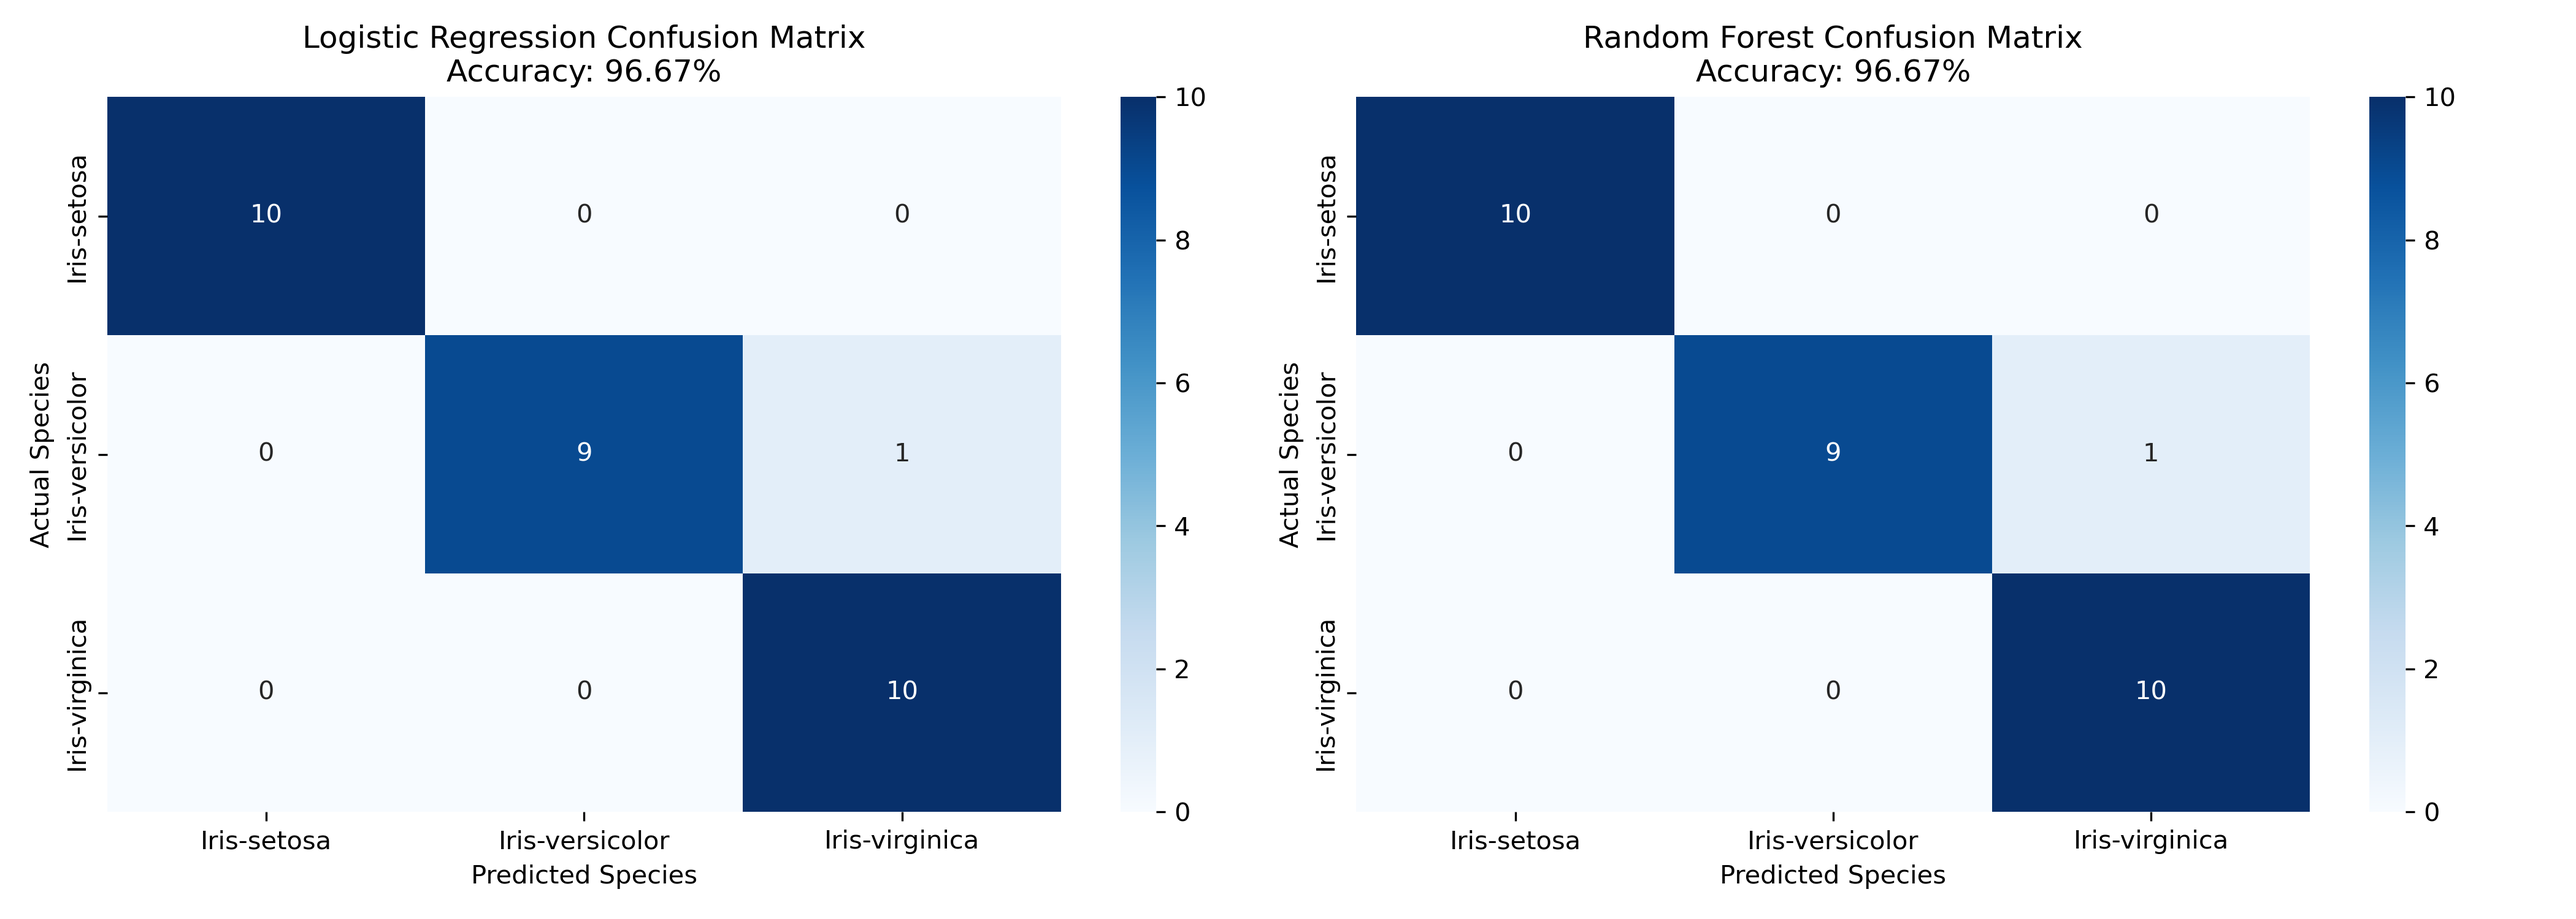
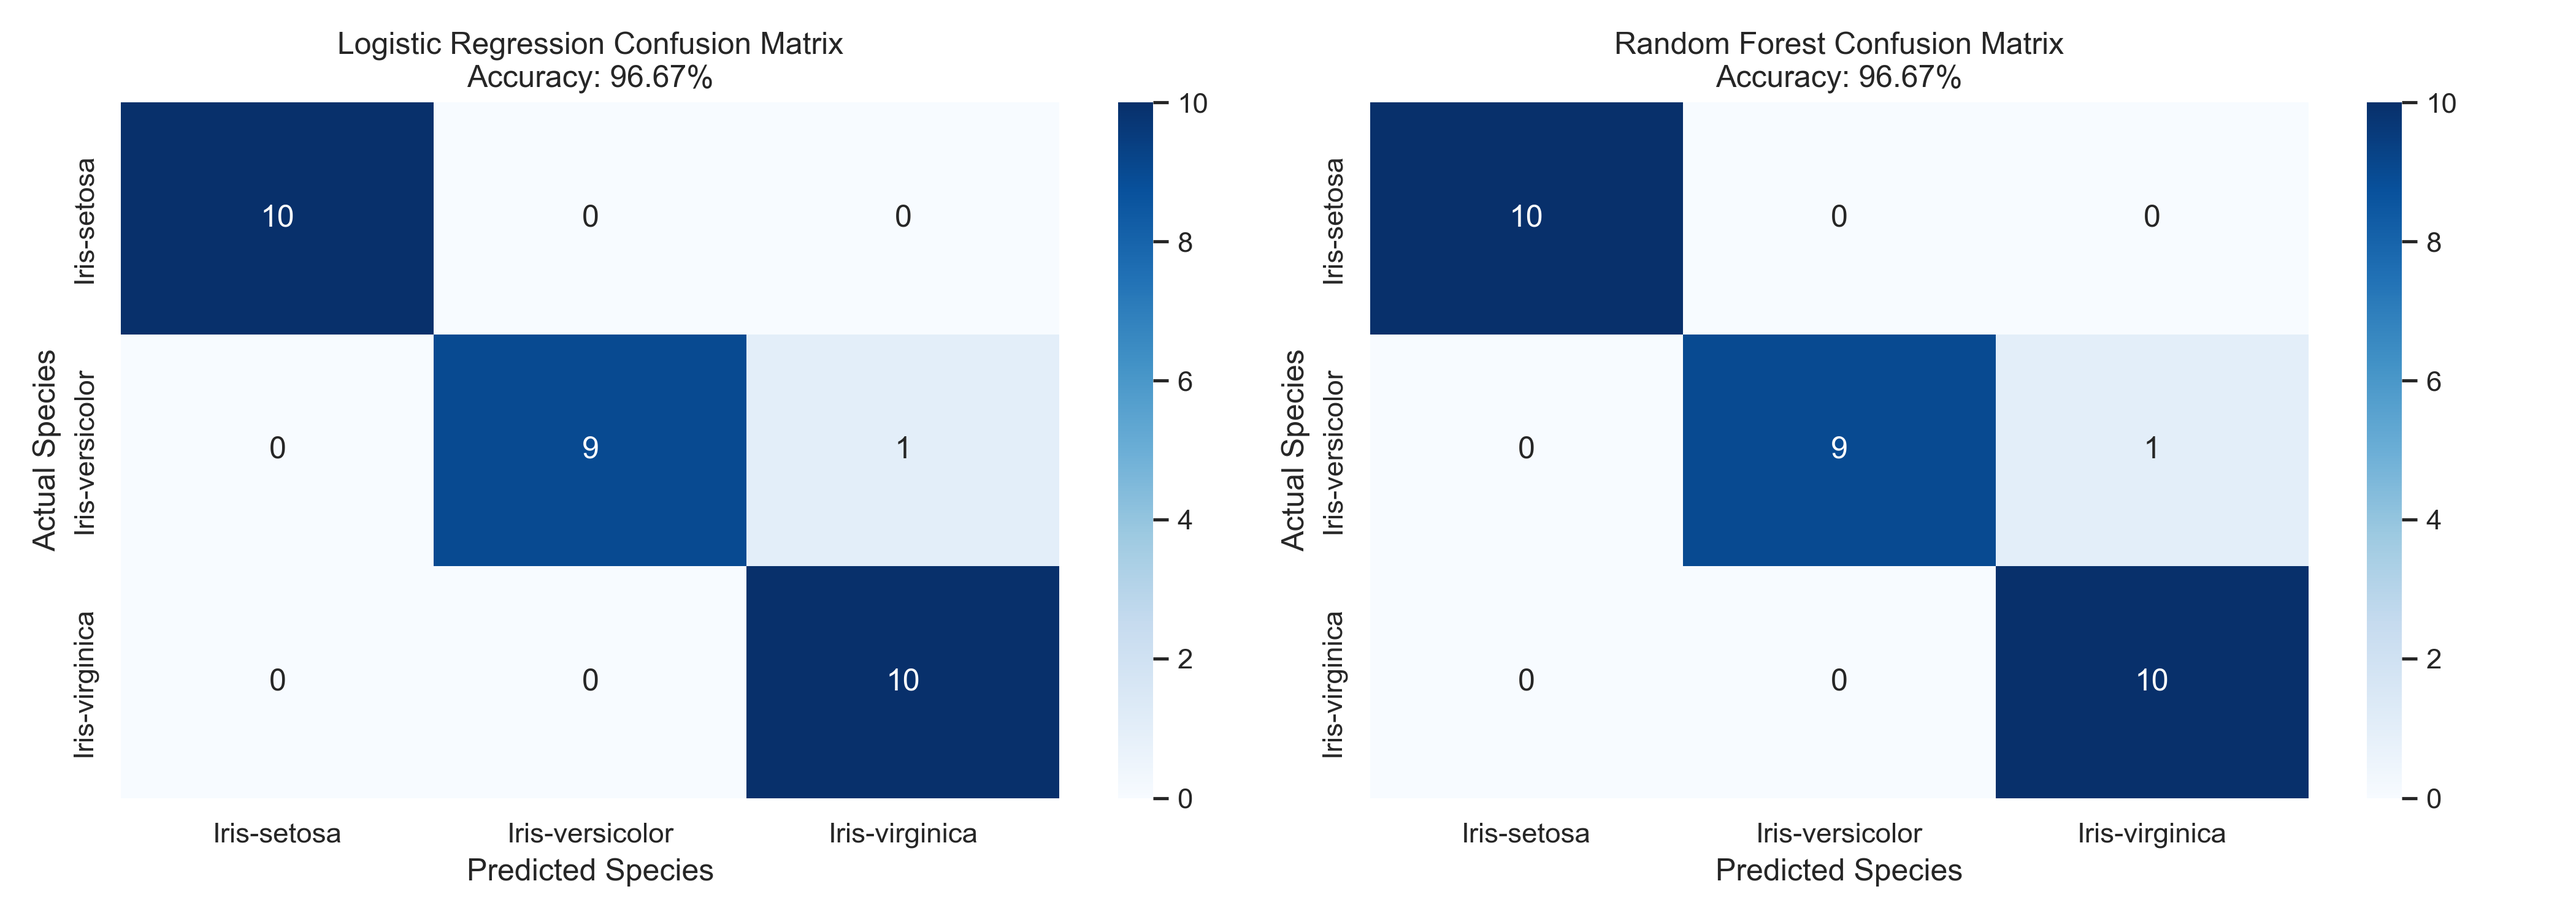
EDA

diff --git a/main.py b/main.py
@@ -44,7 +44,76 @@ output_file = 'iris_cleaned.csv'
 data.to_csv(output_file, index=False)
 print(f"\nCleaned dataset saved successfully to '{output_file}'.")
 
-# 7. 80/20 Random Train-Test Split
+# 7. Exploratory Data Analysis (EDA) & Parameter Relationships
+import matplotlib.pyplot as plt
+import seaborn as sns
+
+sns.set_theme(style="whitegrid", palette="Set2")
+
+print("\n" + "="*55)
+print("       EXPLORATORY DATA ANALYSIS (EDA) & RELATIONSHIPS")
+print("="*55)
+
+# A. Mean and Standard Deviation per Species
+print("\n--- Feature Mean per Species ---")
+species_mean = data.groupby('species')[feature_cols].mean()
+print(species_mean.round(2))
+
+# B. Correlation Matrix among Parameters
+corr_matrix = data[feature_cols].corr()
+print("\n--- Pearson Correlation Matrix ---")
+print(corr_matrix.round(3))
+
+# Visual Plot 1: Correlation Matrix Heatmap
+plt.figure(figsize=(7, 5))
+sns.heatmap(corr_matrix, annot=True, cmap='coolwarm', fmt=".2f", linewidths=1, vmin=-1, vmax=1)
+plt.title("Correlation Matrix of Iris Flower Features", fontsize=13, pad=12)
+plt.tight_layout()
+plt.savefig("eda_correlation_matrix.png", dpi=300)
+plt.close()
+print("\n1. Correlation heatmap saved as 'eda_correlation_matrix.png'.")
+
+# Visual Plot 2: Pairplot of All Parameters (Bivariate Relationships + KDE)
+pairplot_fig = sns.pairplot(data, hue='species', diag_kind='kde', markers=["o", "s", "D"], height=2.2)
+pairplot_fig.figure.suptitle("Pairwise Relationships of All Parameters by Species", y=1.02, fontsize=14)
+pairplot_fig.savefig("eda_pairplot.png", dpi=300)
+plt.close()
+print("2. Pairwise feature plot saved as 'eda_pairplot.png'.")
+
+# Visual Plot 3: Boxplots (Distribution & Outlier Analysis per Feature)
+fig, axes = plt.subplots(2, 2, figsize=(12, 9))
+axes = axes.flatten()
+for idx, col in enumerate(feature_cols):
+    sns.boxplot(data=data, x='species', y=col, ax=axes[idx], hue='species', legend=False)
+    axes[idx].set_title(f"Distribution of {col.replace('_', ' ').title()} by Species", fontsize=11)
+    axes[idx].set_xlabel("Species")
+    axes[idx].set_ylabel(f"{col} (cm)")
+plt.suptitle("Feature Distributions and Outlier Identification", fontsize=14)
+plt.tight_layout()
+plt.savefig("eda_boxplots.png", dpi=300)
+plt.close()
+print("3. Feature boxplots saved as 'eda_boxplots.png'.")
+
+# Visual Plot 4: Focused Parameter Relationships (Petal vs Sepal dimensions)
+fig, (ax1, ax2) = plt.subplots(1, 2, figsize=(14, 5))
+sns.scatterplot(data=data, x='petal_length', y='petal_width', hue='species',
+                style='species', s=70, ax=ax1)
+ax1.set_title("Petal Length vs. Petal Width\n(High Separation: r = 0.96)", fontsize=12)
+ax1.set_xlabel("Petal Length (cm)")
+ax1.set_ylabel("Petal Width (cm)")
+
+sns.scatterplot(data=data, x='sepal_length', y='sepal_width', hue='species',
+                style='species', s=70, ax=ax2)
+ax2.set_title("Sepal Length vs. Sepal Width\n(Moderate Overlap: r = -0.11)", fontsize=12)
+ax2.set_xlabel("Sepal Length (cm)")
+ax2.set_ylabel("Sepal Width (cm)")
+
+plt.tight_layout()
+plt.savefig("eda_scatter_relationships.png", dpi=300)
+plt.close()
+print("4. Focused relationship scatter plots saved as 'eda_scatter_relationships.png'.")
+
+# 8. 80/20 Random Train-Test Split
 from sklearn.model_selection import train_test_split
 
 # Separate features (X) and target label (y)
@@ -67,7 +136,7 @@ print(y_train.value_counts())
 print("\nTesting class distribution:")
 print(y_test.value_counts())
 
-# 8. Summary of Parameters Considered
+# 9. Summary of Parameters Considered
 print("\n" + "="*55)
 print("             PARAMETERS CONSIDERED")
 print("="*55)
@@ -95,7 +164,7 @@ print("   - criterion: 'gini' (impurity measurement criterion)")
 print("   - random_state: 42 (seed for tree building reproducibility)")
 print("="*55)
 
-# 9. Model Training on 80% Training Data
+# 10. Model Training on 80% Training Data
 from sklearn.linear_model import LogisticRegression
 from sklearn.ensemble import RandomForestClassifier
 from sklearn.metrics import (
@@ -106,8 +175,6 @@ from sklearn.metrics import (
     confusion_matrix,
     classification_report
 )
-import matplotlib.pyplot as plt
-import seaborn as sns
 
 print("\n--- Model Training on 80% Data ---")
 # Train Logistic Regression
@@ -120,7 +187,7 @@ rf_model = RandomForestClassifier(n_estimators=100, random_state=42)
 rf_model.fit(X_train, y_train)
 print(" Random Forest Classifier trained.")
 
-# 10. Model Evaluation on 20% Test Data
+# 11. Model Evaluation on 20% Test Data
 models = {
     "Logistic Regression": lr_model,
     "Random Forest": rf_model
@@ -151,7 +218,7 @@ for model_name, model in models.items():
     print("\nDetailed Classification Report:")
     print(classification_report(y_test, y_pred))
 
-# 11. Test Set Actual vs Predicted Samples Comparison
+# 12. Test Set Actual vs Predicted Samples Comparison
 print("\n--- Test Set Actual vs Predicted Comparison (First 10 Samples) ---")
 test_comparison = X_test.copy()
 test_comparison['Actual_Species'] = y_test
@@ -159,7 +226,7 @@ test_comparison['LR_Pred'] = lr_model.predict(X_test)
 test_comparison['RF_Pred'] = rf_model.predict(X_test)
 print(test_comparison.head(10))
 
-# 12. Save Confusion Matrix Heatmap
+# 13. Save Confusion Matrix Heatmap
 fig, axes = plt.subplots(1, 2, figsize=(14, 5))
 for ax, (model_name, model) in zip(axes, models.items()):
     y_pred = model.predict(X_test)
@@ -172,4 +239,6 @@ for ax, (model_name, model) in zip(axes, models.items()):
 
 plt.tight_layout()
 plt.savefig("model_evaluation_metrics.png", dpi=300)
+plt.close()
 print("\nConfusion matrix visualizations saved to 'model_evaluation_metrics.png'.")
+
